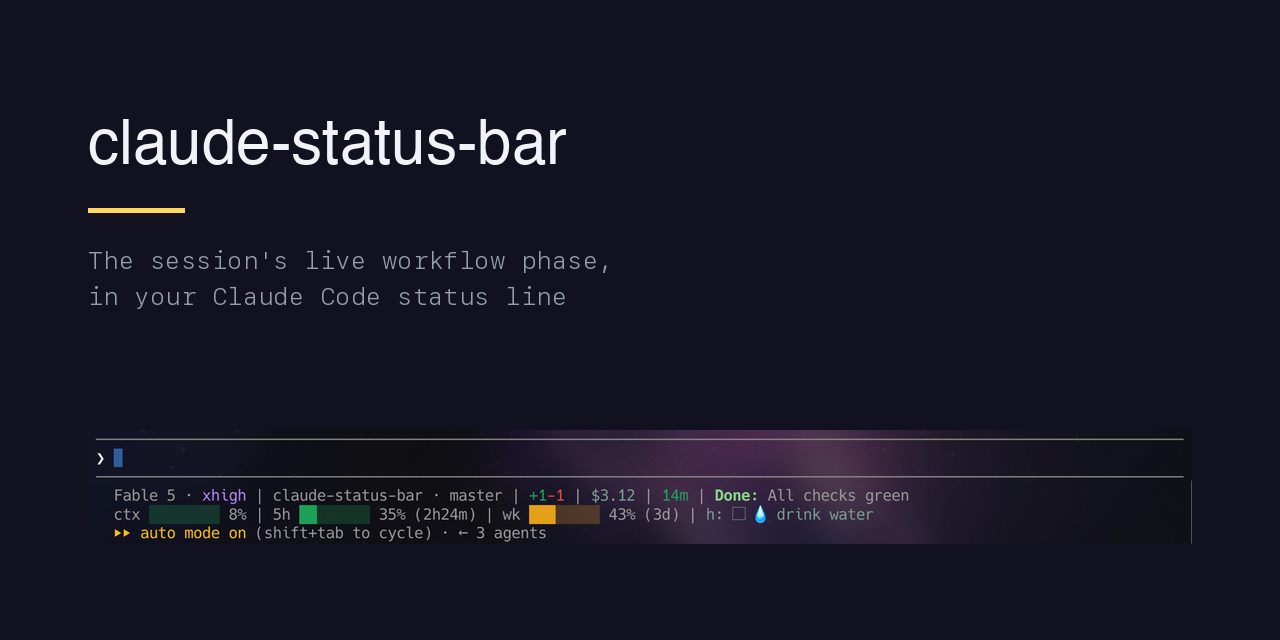
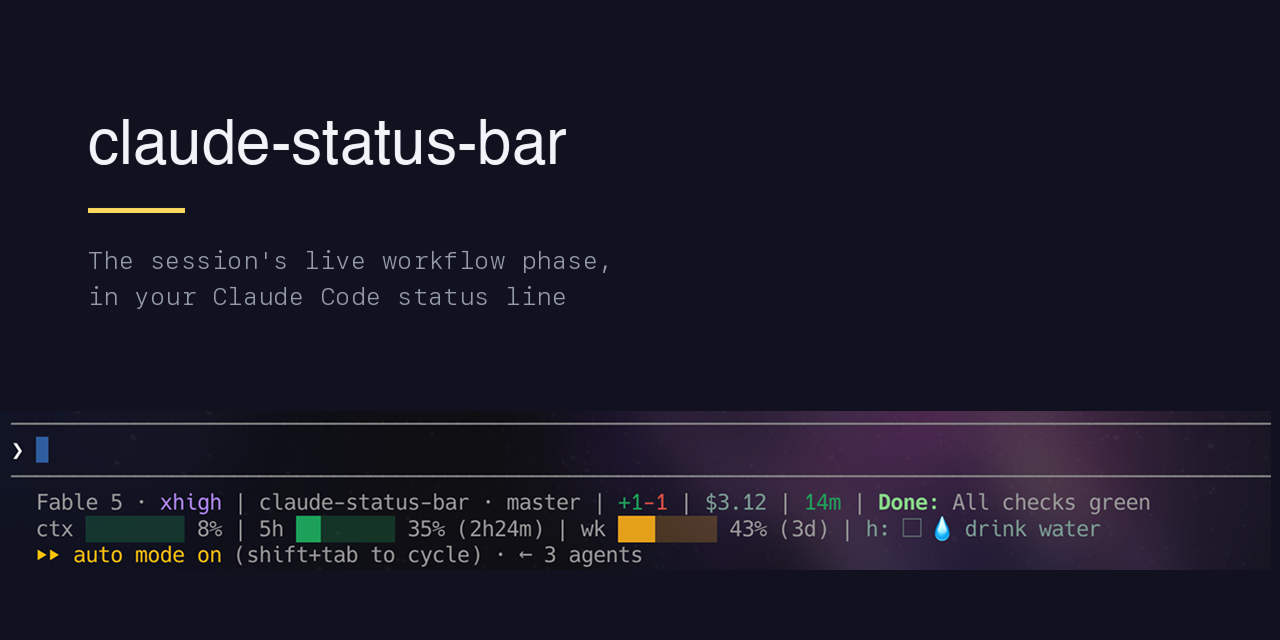
fix(statusline): spell out the health label; refresh social preview

Changed region(s): [[0.0, 0.625, 1.0, 0.9062]]

diff --git a/bin/claude-code-status.js b/bin/claude-code-status.js
@@ -257,7 +257,7 @@ process.stdin.on('end', () => {
     limitStat('5h', rl?.five_hour);
     limitStat('wk', rl?.seven_day);
     const hp = selectHealthPhrase(Date.now());
-    if (hp) L2.push(`\x1b[36mh: ${hp}\x1b[0m`);
+    if (hp) L2.push(`\x1b[36mhealth: ${hp}\x1b[0m`);
 
     process.stdout.write(`${L1.join(' | ')}\n${L2.join(' | ')}`);
   } catch (e) {}
